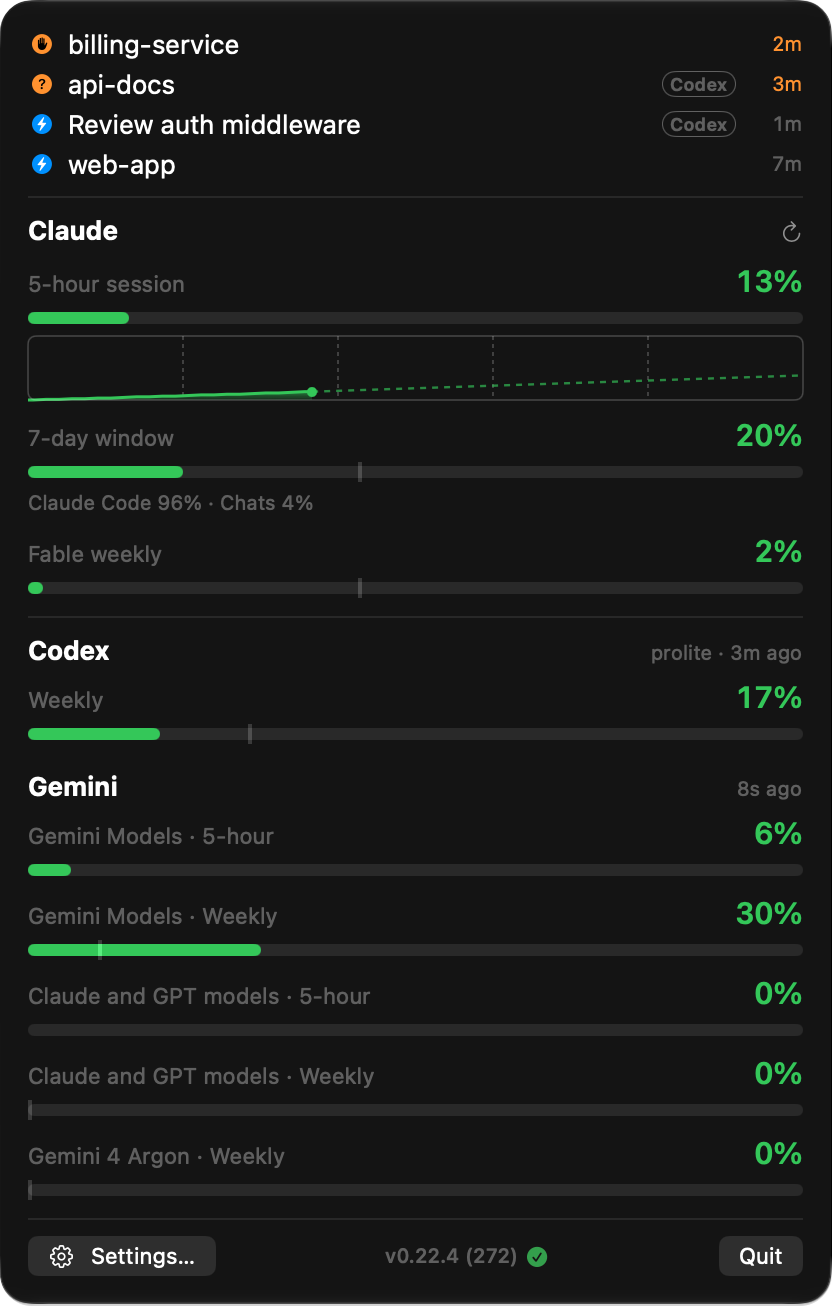
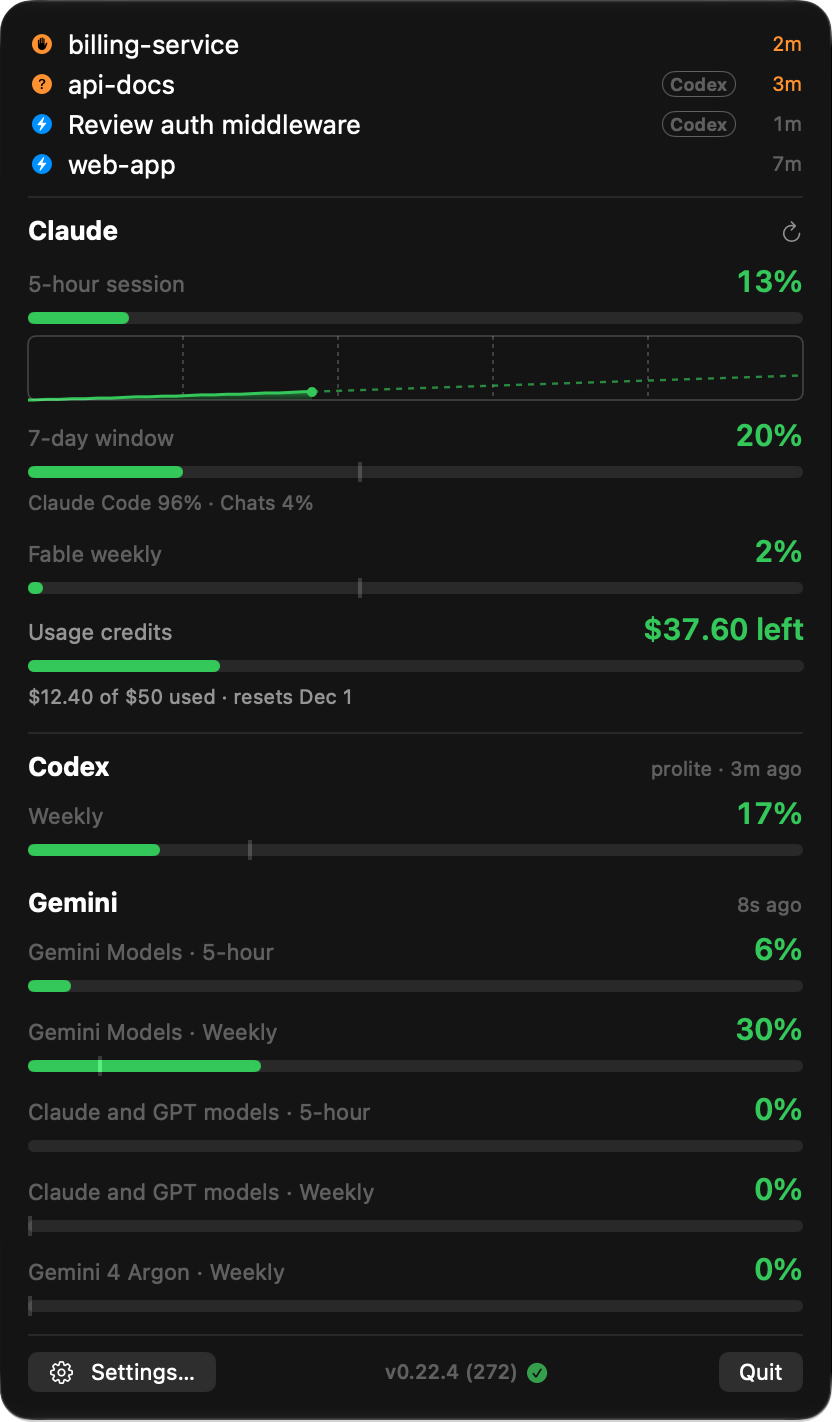
docs: dropdown screenshots show the Usage credits row
The row is rendered from the app's own view with demo values and spliced
under Fable weekly; everything else is pixel-identical to the v0.22.4 shots.

diff --git a/site/index.html b/site/index.html
@@ -132,8 +132,8 @@
 
   <div class="split">
     <picture>
-      <source media="(prefers-color-scheme: dark)" srcset="img/dropdown-dark.png?v=0.22.4">
-      <img class="shot dropdown" src="img/dropdown-light.png?v=0.22.4" width="832" height="1306" alt="The dropdown: active Claude Code and Codex sessions at the top, then Claude's 5-hour session with a sparkline and forecast, the 7-day window, a per-model weekly window, a Codex weekly section, and a Gemini section with each quota group's 5-hour and weekly limits.">
+      <source media="(prefers-color-scheme: dark)" srcset="img/dropdown-dark.png?v=0.23.0">
+      <img class="shot dropdown" src="img/dropdown-light.png?v=0.23.0" width="832" height="1422" alt="The dropdown: active Claude Code and Codex sessions at the top, then Claude's 5-hour session with a sparkline and forecast, the 7-day window, a per-model weekly window, the usage credits left this month, a Codex weekly section, and a Gemini section with each quota group's 5-hour and weekly limits.">
     </picture>
     <ul class="features">
       <li>

diff --git a/README.md b/README.md
@@ -79,8 +79,8 @@ between the quotas. See [Codex usage](#codex-usage) and
 ### Dropdown
 
 <picture>
-  <source media="(prefers-color-scheme: dark)" srcset="docs/screenshots/dropdown-dark.png?v=0.22.4">
-  <img alt="dropdown panel" src="docs/screenshots/dropdown-light.png?v=0.22.4" width="280">
+  <source media="(prefers-color-scheme: dark)" srcset="docs/screenshots/dropdown-dark.png?v=0.23.0">
+  <img alt="dropdown panel" src="docs/screenshots/dropdown-light.png?v=0.23.0" width="280">
 </picture>
 
 - **Resizable width**: drag either side edge of the panel (280–720 pt,
